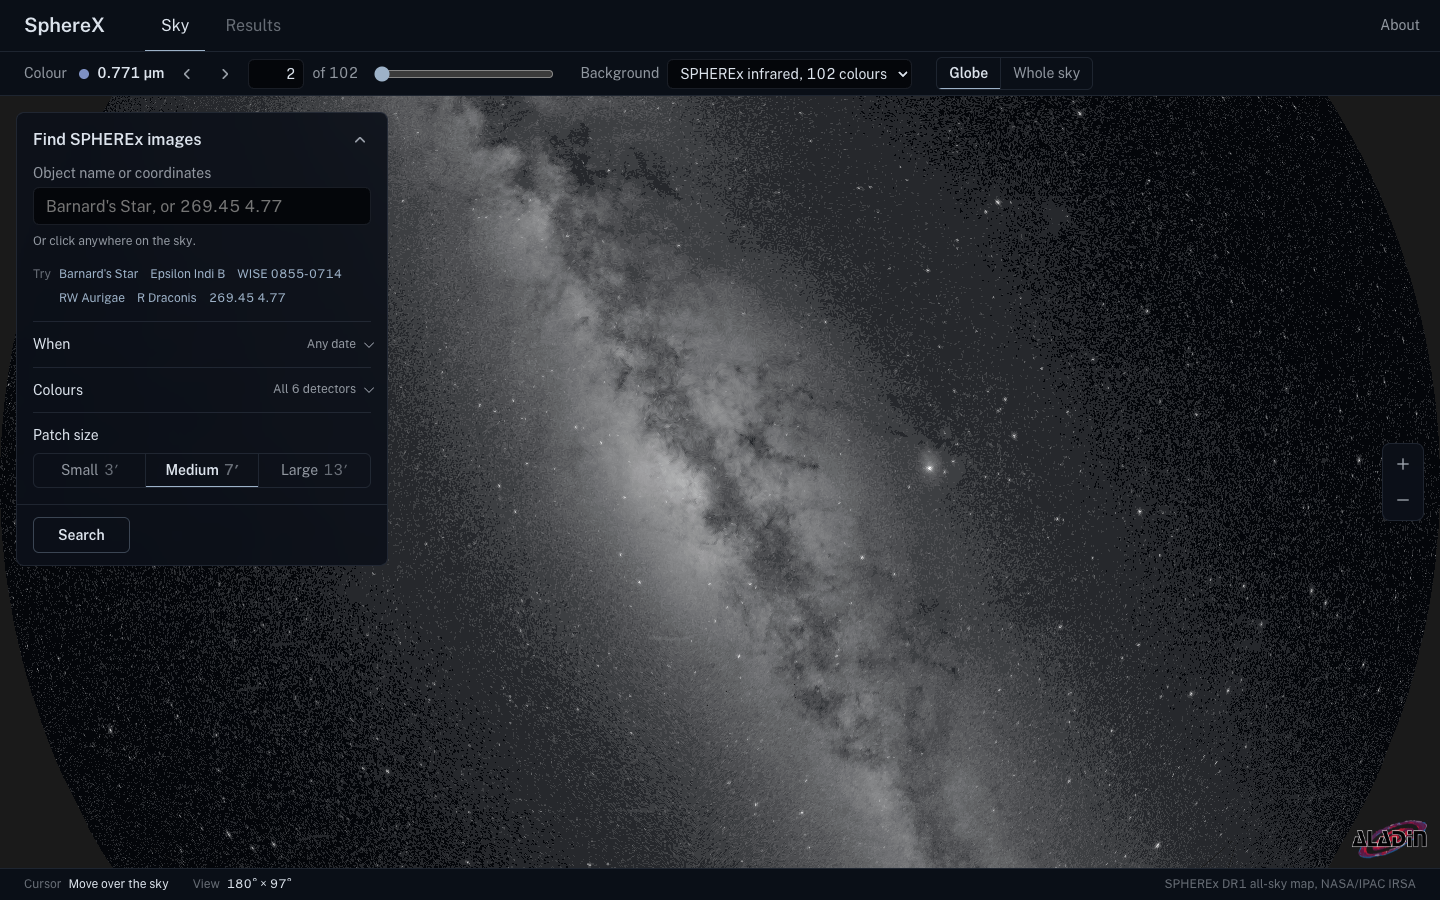
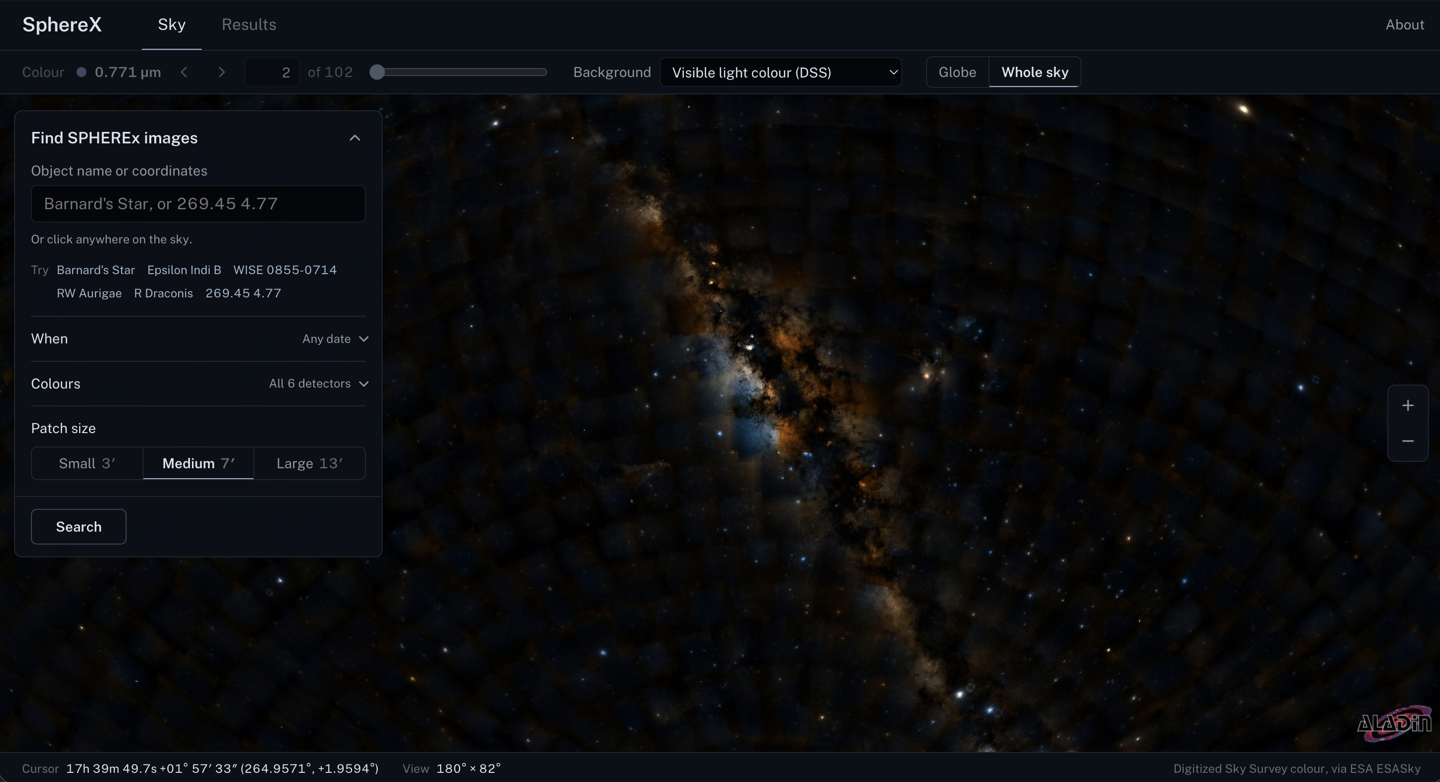
README: colour sky screenshots, results with the default flipbook settings; diagram without prepared targets

diff --git a/README.md b/README.md
@@ -5,7 +5,7 @@ Center (SEC) and SpaceTAU at Tel Aviv University, in partnership with the Rakia 
 
 **Watch the infrared sky change.**  https://flashyflash3011.github.io/SphereX/
 
-![The SPHEREx infrared sky in SphereX](docs/images/1-sky.png)
+![The sky in SphereX, in visible-light colour](docs/images/1-sky.png)
 
 ## Why we built it
 
@@ -22,7 +22,7 @@ anyone to be able to pick a spot in the sky and simply watch it change.
 - **See every photo**: SPHEREx took of that spot, on the sky and in a list.
 - **Play the flipbook**: the photos lined up and played over time, one photo or one visit per frame.
 - **Spot the changes**: easy to read, accessible to the user, and clearly visible, with a color legend explaining the different changes, along side a ghosting feature(outlining clearly the 'ghost' of the previous frame).
-- **Understanding the changes**: every change gets a plain-words verdict, checked against ESA's Gaia star catalogue, like
+- **Understand the changes**: every change gets a plain-words verdict, checked against ESA's Gaia star catalogue, like
   *"Known moving star: Barnard's Star"* or *"Unknown mover: candidate"*.
 - **Read a star's fingerprint**: its brightness across SPHEREx's colours, with water, methane, CO₂ and CO marked.
 
@@ -34,7 +34,7 @@ flowchart LR
   repo[(Our GitHub repo)]
 
   subgraph web [Free hosting]
-    pages[GitHub Pages<br/>the website + 5 prepared targets]
+    pages[GitHub Pages<br/>the website]
     run[Google Cloud Run, Virginia<br/>our Python server:<br/>search, cut out, align]
   end
 
@@ -74,8 +74,9 @@ known moving star, with a measured motion that agrees with Gaia's. An ordinary p
 
 ![Coverage of Barnard's Star](docs/images/2-coverage.png)
 
-**What changed**: Aug 2026 compared with Aug 2025. The star has moved north, and SphereX explains it: 8.5″ ± 1.8″
-measured, 10.3″ predicted by Gaia, seen in 6 of 6 detectors.
+**What changed**: a photo from March 2026 compared with the previous visit, with a ghost of the earlier frame.
+Barnard's Star has moved north, and SphereX explains it: 9.4″ ± 1.8″ measured, 5.9″ predicted by Gaia for these
+dates, consistent, seen in 6 of 6 detectors.
 
 ![What changed on Barnard's Star](docs/images/3-changes.png)
 
